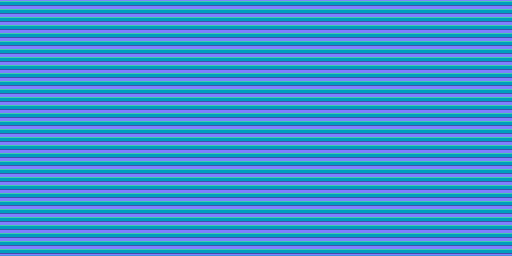
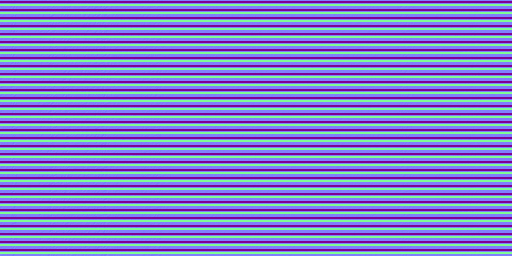
pececillo terminado, piedra con normal map para hacernos los chetos

diff --git a/src/Figuras/Pez.cpp b/src/Figuras/Pez.cpp
@@ -52,6 +52,8 @@ FuncionCurvaBezier AletaPez::crear_funcion () {
 // ******************************* COLA ********************************
 ColaPez::ColaPez(myWindow* ventana) :Figura(ventana) {
 	this->mi_superficie = this->crear_superficie (ventana);
+	this->mi_superficie->nombreTextura="colaPez.jpg";
+	this->mi_superficie->nombreTexturaNormal="colaPezNormal.jpg";
 }
 ColaPez::~ColaPez() { }
 void ColaPez::renderizar(glm::mat4 model_matrix) {
@@ -132,6 +134,8 @@ FuncionCurvaBezier TorsoPez::crear_funcion () {
 // **************************** AletaDorsal ****************************
 AletaDorsal::AletaDorsal(myWindow* ventana): Figura(ventana) {
 	this->mi_superficie = this->crear_superficie (ventana);
+	this->mi_superficie->nombreTextura="aletaDorsalPez.jpg";
+	this->mi_superficie->nombreTexturaNormal="aletaDorsalPezNormal.jpg";
 }
 AletaDorsal::~AletaDorsal(){ }
 void AletaDorsal::renderizar(glm::mat4 model_matrix) {

diff --git a/src/Figuras/piedra.cpp b/src/Figuras/piedra.cpp
@@ -12,6 +12,7 @@
 Piedra::Piedra(myWindow* ventana) : Figura (ventana) {
 	this->mi_superficie = this->crear_superficie (ventana);
 	this->mi_superficie->nombreTextura="roca.jpg";
+	this->mi_superficie->nombreTexturaNormal="rocaNormal.jpg";
 }
 Piedra::~Piedra() { }
 
